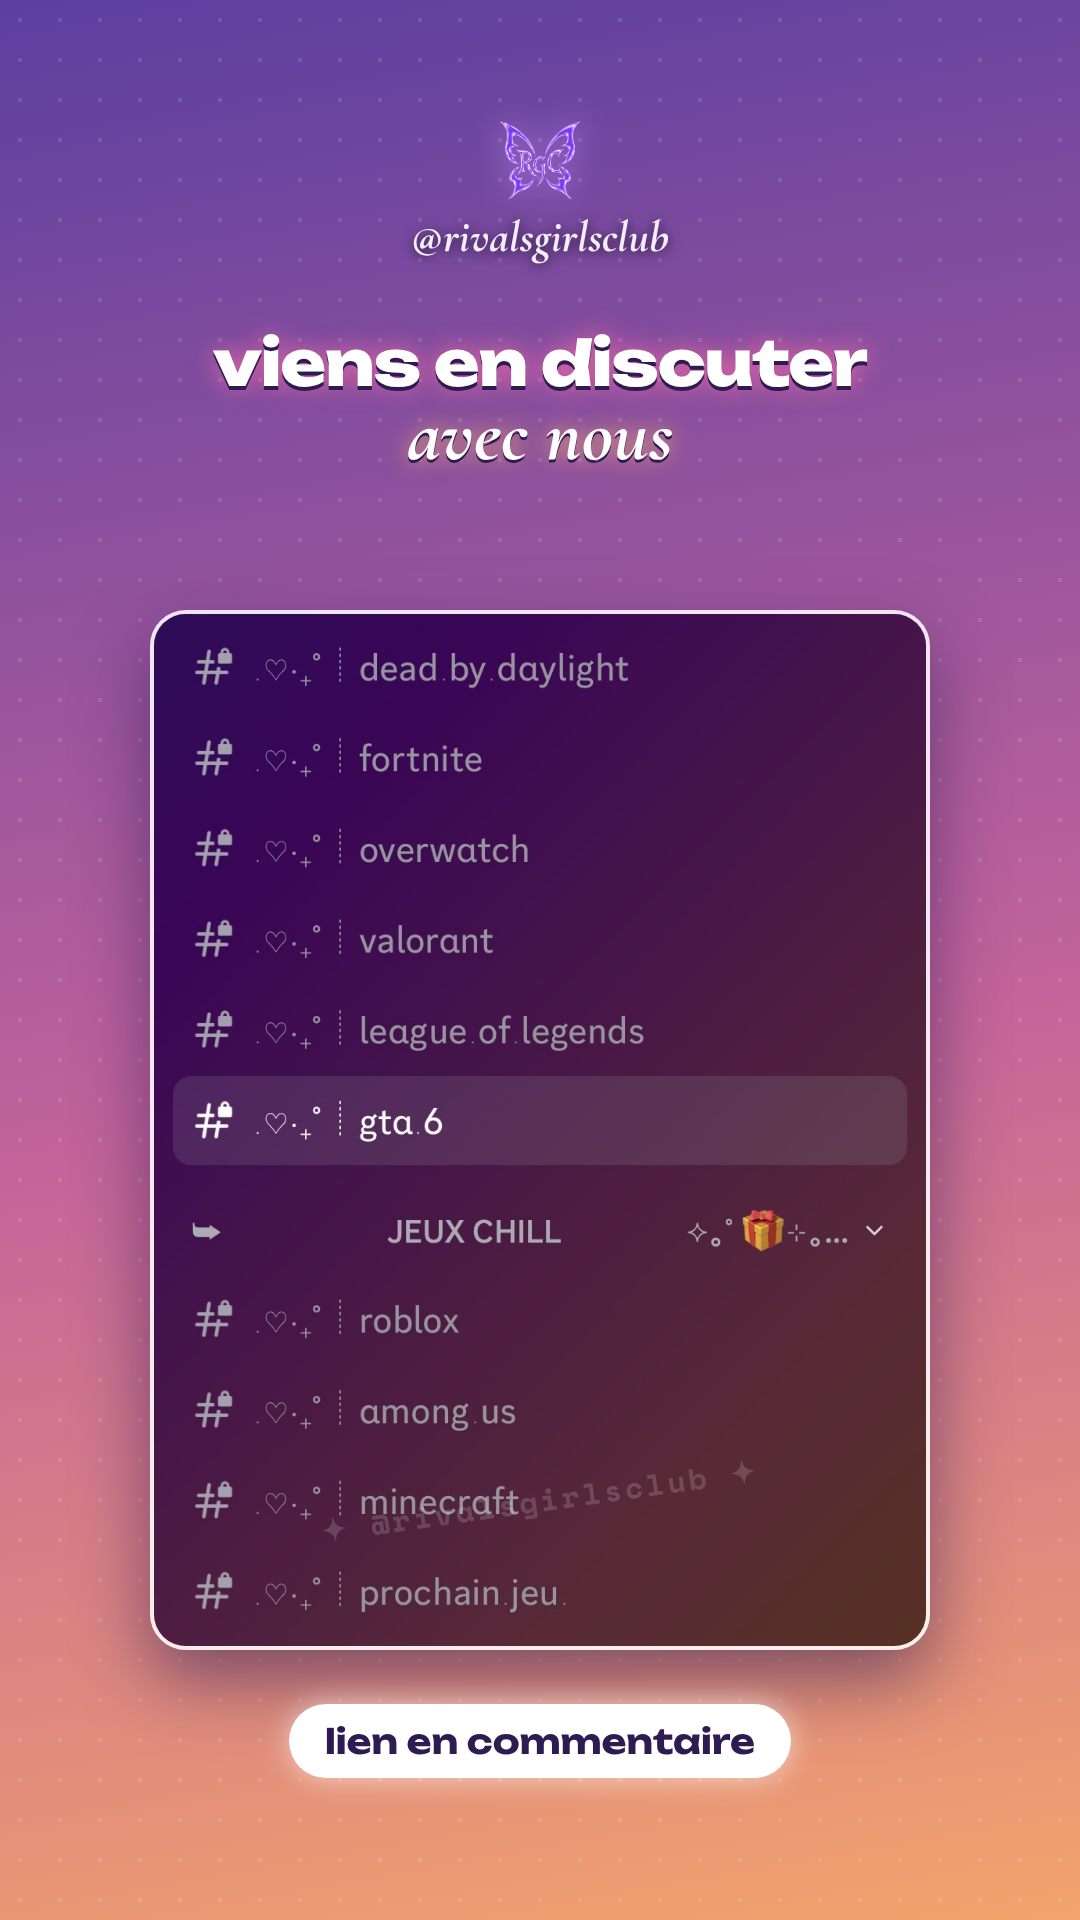
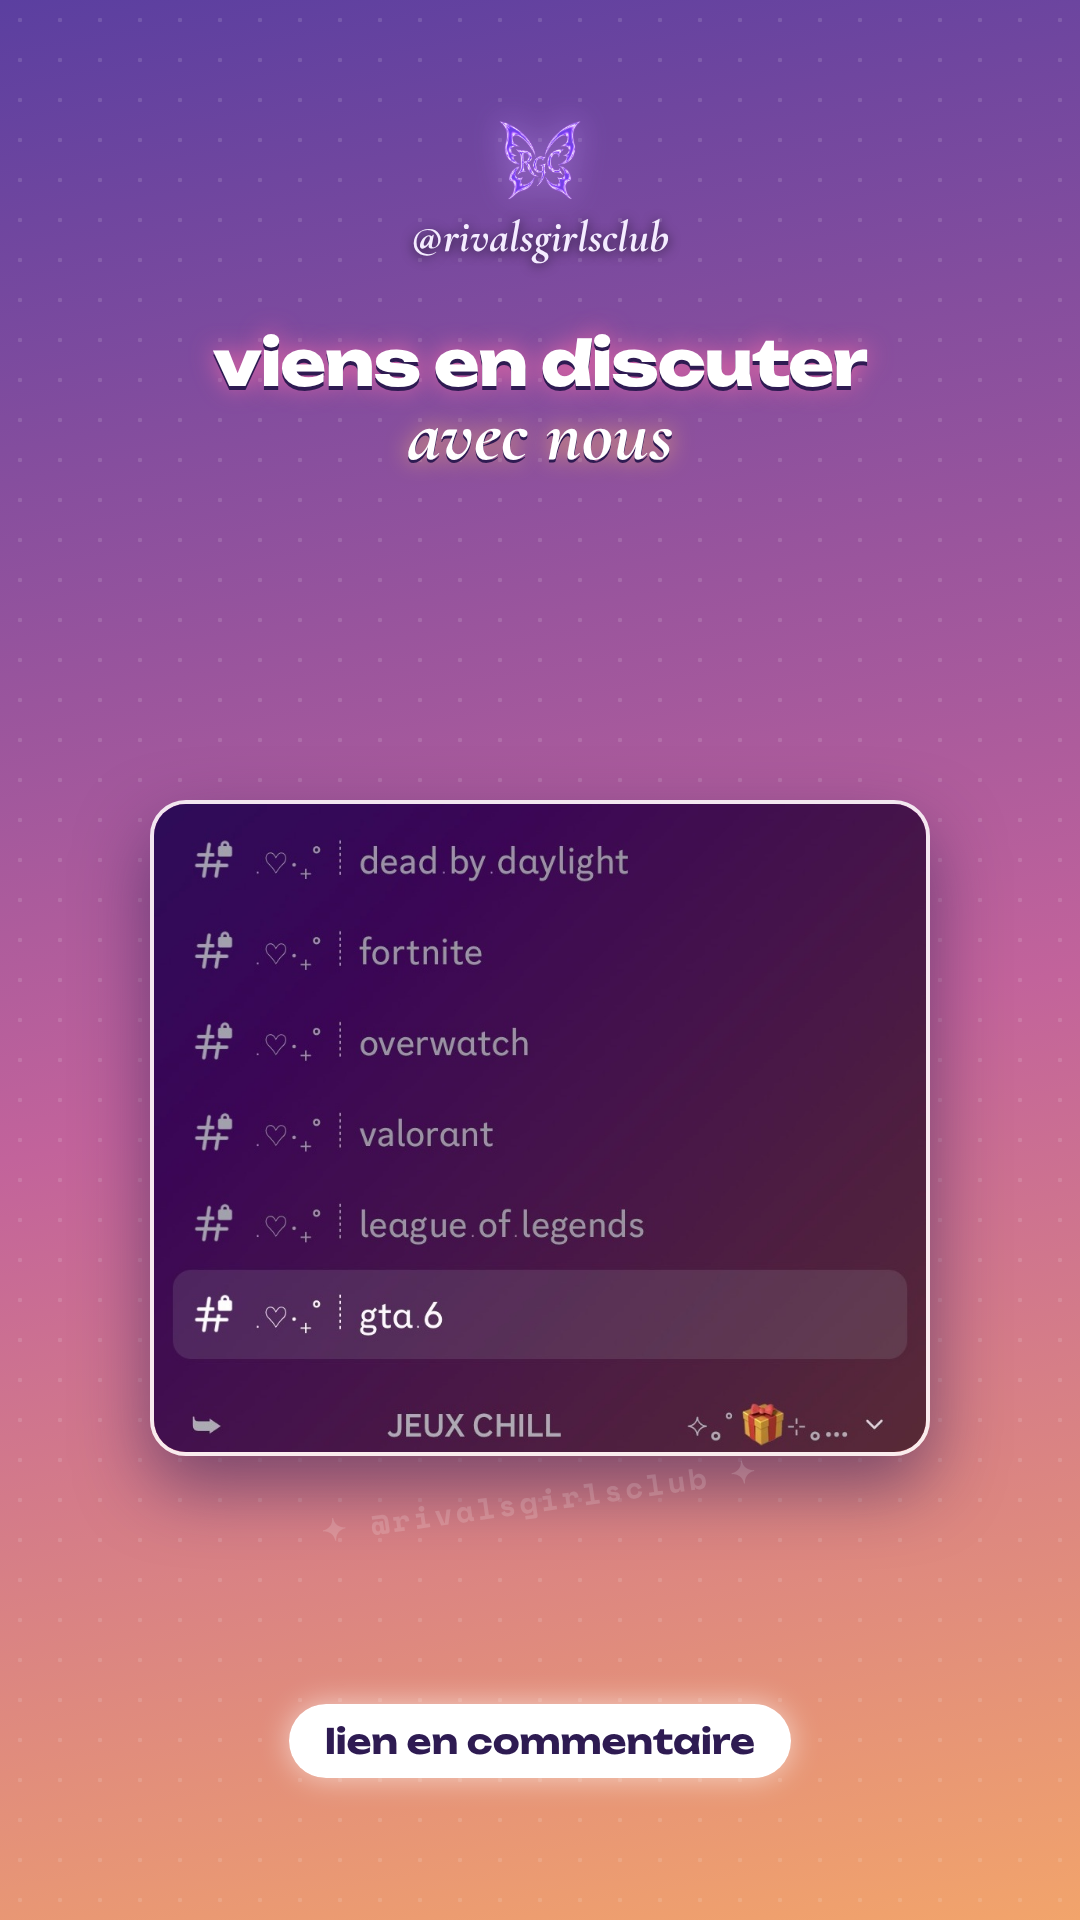
GTA slide 3: recentre channel list, hide 'prochain jeu'
Claude-Session: https://claude.ai/code/session_01HzsHj1ajzU12w9biQgwm1w

Changed region(s): [[0.0917, 0.3125, 0.8861, 0.9062], [0.2444, 0.6562, 0.275, 0.6875]]

diff --git a/promo/src/videos/GtaSlides.tsx b/promo/src/videos/GtaSlides.tsx
@@ -68,8 +68,8 @@ export const GtaSlide3: React.FC = () => (
       <div style={big}>viens en discuter</div>
       <div style={serif}>avec nous</div>
     </div>
-    <div style={{ position: "absolute", left: 150, top: 610, width: 780, height: 1040, borderRadius: 36, overflow: "hidden", border: "4px solid rgba(255,255,255,0.85)", boxShadow: "0 30px 70px rgba(46,27,82,0.55)" }}>
-      <Img src={staticFile("gta/salons-gta.jpg")} style={{ width: "100%", height: "100%", objectFit: "cover", objectPosition: "50% 0%" }} />
+    <div style={{ position: "absolute", left: 150, top: 800, width: 780, height: 656, borderRadius: 36, overflow: "hidden", border: "4px solid rgba(255,255,255,0.85)", boxShadow: "0 30px 70px rgba(46,27,82,0.55)" }}>
+      <Img src={staticFile("gta/salons-gta.jpg")} style={{ width: "100%", height: "100%", objectFit: "cover", objectPosition: "50% 50%" }} />
     </div>
     <div style={{ position: "absolute", top: 1720, width: "100%", textAlign: "center" }}>
       <span style={{ fontFamily: FONT.display, fontWeight: 700, fontSize: 34, color: INK, padding: "16px 36px", borderRadius: 999, background: "#fff", boxShadow: "0 0 30px rgba(255,255,255,0.6)" }}>lien en commentaire</span>
